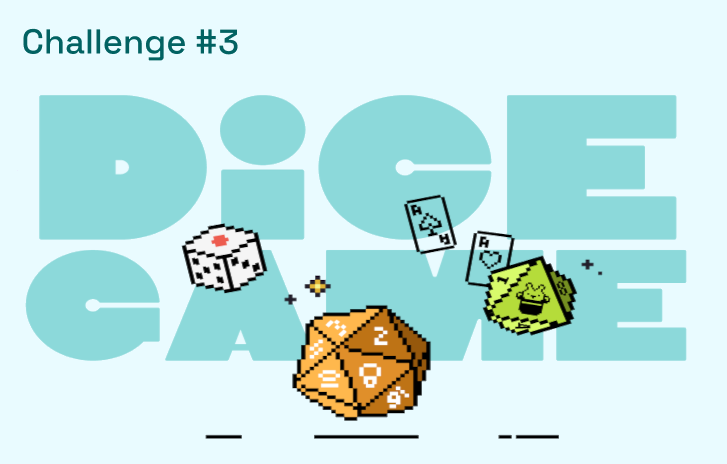
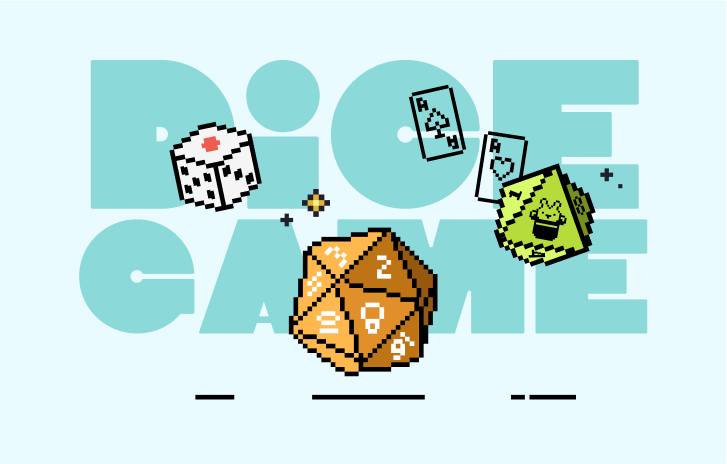
Delete challenge # from image assets

diff --git a/README.md b/README.md
@@ -1,6 +1,6 @@
 # 🚩 Challenge 3: 🎲 Dice Game
 
-![readme-3](https://github.com/scaffold-eth/se-2-challenges/assets/55535804/45050937-3873-444f-831e-a7cbfd3c2897)
+![readme-3](https://github.com/user-attachments/assets/1e6a3f8f-b2b2-4e88-a1c0-a9c0a854f947)
 
 > 🎰 Randomness is tricky on a public deterministic blockchain. The block hash is an easy to use, but very weak form of randomness. This challenge will give you an example of a contract using block hash to create random numbers. This randomness is exploitable. Other, stronger forms of randomness include commit/reveal schemes, oracles, or VRF from Chainlink.
 
